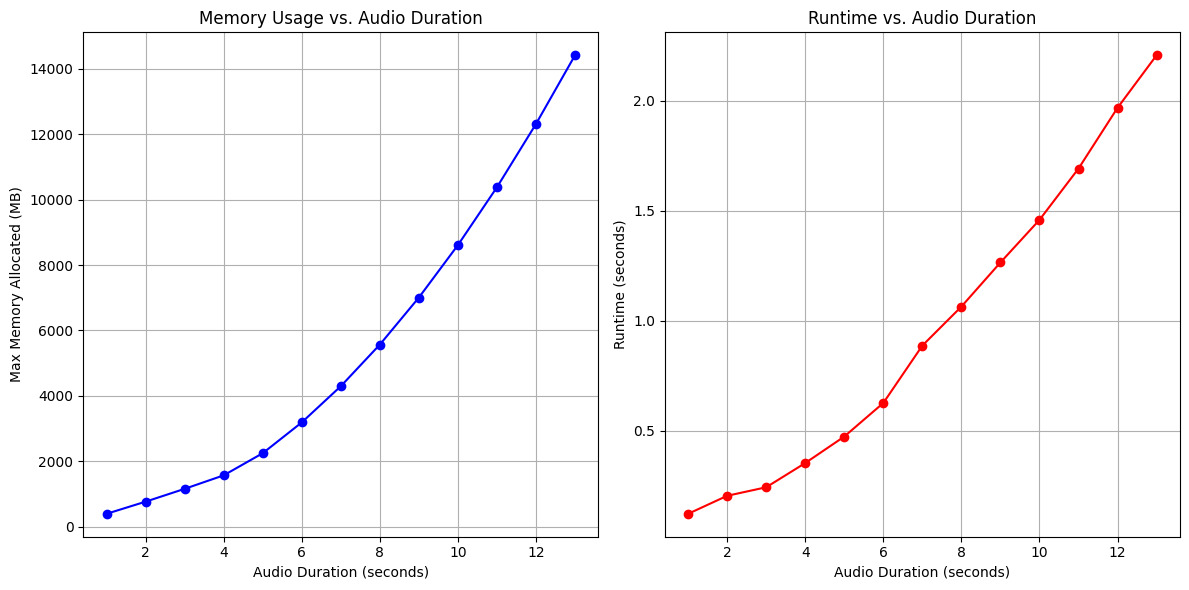
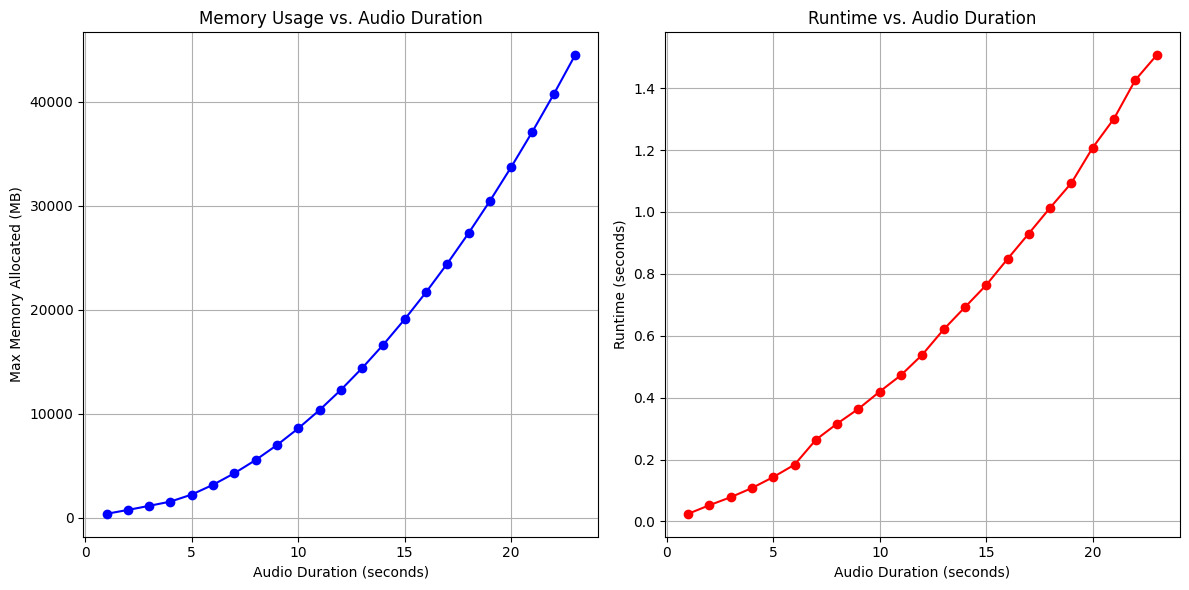
docs: update benchmark on A40

diff --git a/scripts/benchmark.py b/scripts/benchmark.py
@@ -11,7 +11,7 @@ os.environ["PYTORCH_CUDA_ALLOC_CONF"] = "expandable_segments:True"
 model = MPSENet.from_pretrained("JacobLinCool/MP-SENet-DNS").to("cuda")
 
 sample_rate = 16000  # Hz
-durations = range(1, 14)  # From 1 to 13 seconds (OOM for 14+ seconds)
+durations = range(1, 30)  # From 1 second onwards
 memory_usage = []
 runtimes = []
 
@@ -28,7 +28,15 @@ def measure_memory_and_runtime(duration, sample_rate, model):
 
     # Measure runtime of the forward pass
     start_time = time.time()
-    model(audio_tensor, segment_size=99999999)
+    try:
+        model(audio_tensor, segment_size=99999999)
+    except RuntimeError as e:
+        if "out of memory" in str(e):
+            print(f"OOM at {duration} sec; stopping early.")
+            torch.cuda.empty_cache()
+            return None, None
+        else:
+            raise e
     end_time = time.time()
 
     # Calculate runtime and memory usage
@@ -38,6 +46,7 @@ def measure_memory_and_runtime(duration, sample_rate, model):
     # Clear GPU cache to avoid memory accumulation
     del audio_tensor
     torch.cuda.empty_cache()
+    time.sleep(1)
 
     return max_memory, runtime
 
@@ -48,13 +57,16 @@ warmup_duration = 0.5  # 0.5 second
 warmup_memory, warmup_runtime = measure_memory_and_runtime(
     warmup_duration, 16000, model
 )
-print(
-    f"Warm-up completed - Memory: {warmup_memory:.2f} MB - Runtime: {warmup_runtime:.4f} sec"
-)
+if warmup_memory is not None:
+    print(
+        f"Warm-up completed - Memory: {warmup_memory:.2f} MB - Runtime: {warmup_runtime:.4f} sec"
+    )
 
 # Run measurements for each duration
 for duration in durations:
     max_memory, runtime = measure_memory_and_runtime(duration, sample_rate, model)
+    if max_memory is None:
+        break  # Stop the loop if OOM occurs
     print(
         f"Duration: {duration} sec - Memory: {max_memory:.2f} MB - Runtime: {runtime:.4f} sec"
     )
@@ -66,7 +78,7 @@ plt.figure(figsize=(12, 6))
 
 # Plot 1: Memory Usage
 plt.subplot(1, 2, 1)
-plt.plot(durations, memory_usage, marker="o", color="b")
+plt.plot(durations[: len(memory_usage)], memory_usage, marker="o", color="b")
 plt.xlabel("Audio Duration (seconds)")
 plt.ylabel("Max Memory Allocated (MB)")
 plt.title("Memory Usage vs. Audio Duration")
@@ -74,7 +86,7 @@ plt.grid(True)
 
 # Plot 2: Runtime
 plt.subplot(1, 2, 2)
-plt.plot(durations, runtimes, marker="o", color="r")
+plt.plot(durations[: len(runtimes)], runtimes, marker="o", color="r")
 plt.xlabel("Audio Duration (seconds)")
 plt.ylabel("Runtime (seconds)")
 plt.title("Runtime vs. Audio Duration")

diff --git a/README.md b/README.md
@@ -44,20 +44,31 @@ If you have enough memory, you can set `segment_size` to a larger value (e.g., 1
 
 ![Memory Usage and Speed](images/usage.jpg)
 
-| Segment Length (sec) | Memory (MB) | Runtime (sec) |
-| -------------------- | ----------- | ------------- |
-| 1                    | 398.38      | 0.1234        |
-| 2                    | 769.42      | 0.2051        |
-| 3                    | 1161.13     | 0.2439        |
-| 4                    | 1573.53     | 0.3538        |
-| 5                    | 2249.46     | 0.4741        |
-| 6                    | 3190.23     | 0.6266        |
-| 7                    | 4296.47     | 0.8872        |
-| 8                    | 5568.20     | 1.0642        |
-| 9                    | 7005.40     | 1.2646        |
-| 10                   | 8608.08     | 1.4580        |
-| 11                   | 10376.24    | 1.6912        |
-| 12                   | 12309.88    | 1.9670        |
-| 13                   | 14408.99    | 2.2056        |
+| Segment Length (sec) | Max Memory (MB) | Runtime (sec) |
+| -------------------- | --------------- | ------------- |
+| 1                    | 388.38          | 0.0248        |
+| 2                    | 759.41          | 0.0526        |
+| 3                    | 1151.13         | 0.0784        |
+| 4                    | 1563.53         | 0.1082        |
+| 5                    | 2239.46         | 0.1436        |
+| 6                    | 3180.23         | 0.1836        |
+| 7                    | 4286.47         | 0.2641        |
+| 8                    | 5558.20         | 0.3161        |
+| 9                    | 6995.40         | 0.3640        |
+| 10                   | 8598.08         | 0.4197        |
+| 11                   | 10366.24        | 0.4729        |
+| 12                   | 12299.87        | 0.5390        |
+| 13                   | 14398.99        | 0.6204        |
+| 14                   | 16663.58        | 0.6922        |
+| 15                   | 19093.66        | 0.7638        |
+| 16                   | 21689.21        | 0.8480        |
+| 17                   | 24450.23        | 0.9302        |
+| 18                   | 27376.74        | 1.0135        |
+| 19                   | 30468.73        | 1.0935        |
+| 20                   | 33726.19        | 1.2075        |
+| 21                   | 37149.13        | 1.3012        |
+| 22                   | 40737.56        | 1.4260        |
+| 23                   | 44491.46        | 1.5061        |
+| 24                   | OOM             | OOM           |
 
-> Tested on Google Colab with a Tesla T4 GPU. See [scripts/benchmark.py](scripts/benchmark.py) for more details.
+> Tested on A40 GPU with 48G VRAM. See [scripts/benchmark.py](scripts/benchmark.py) for more details.
